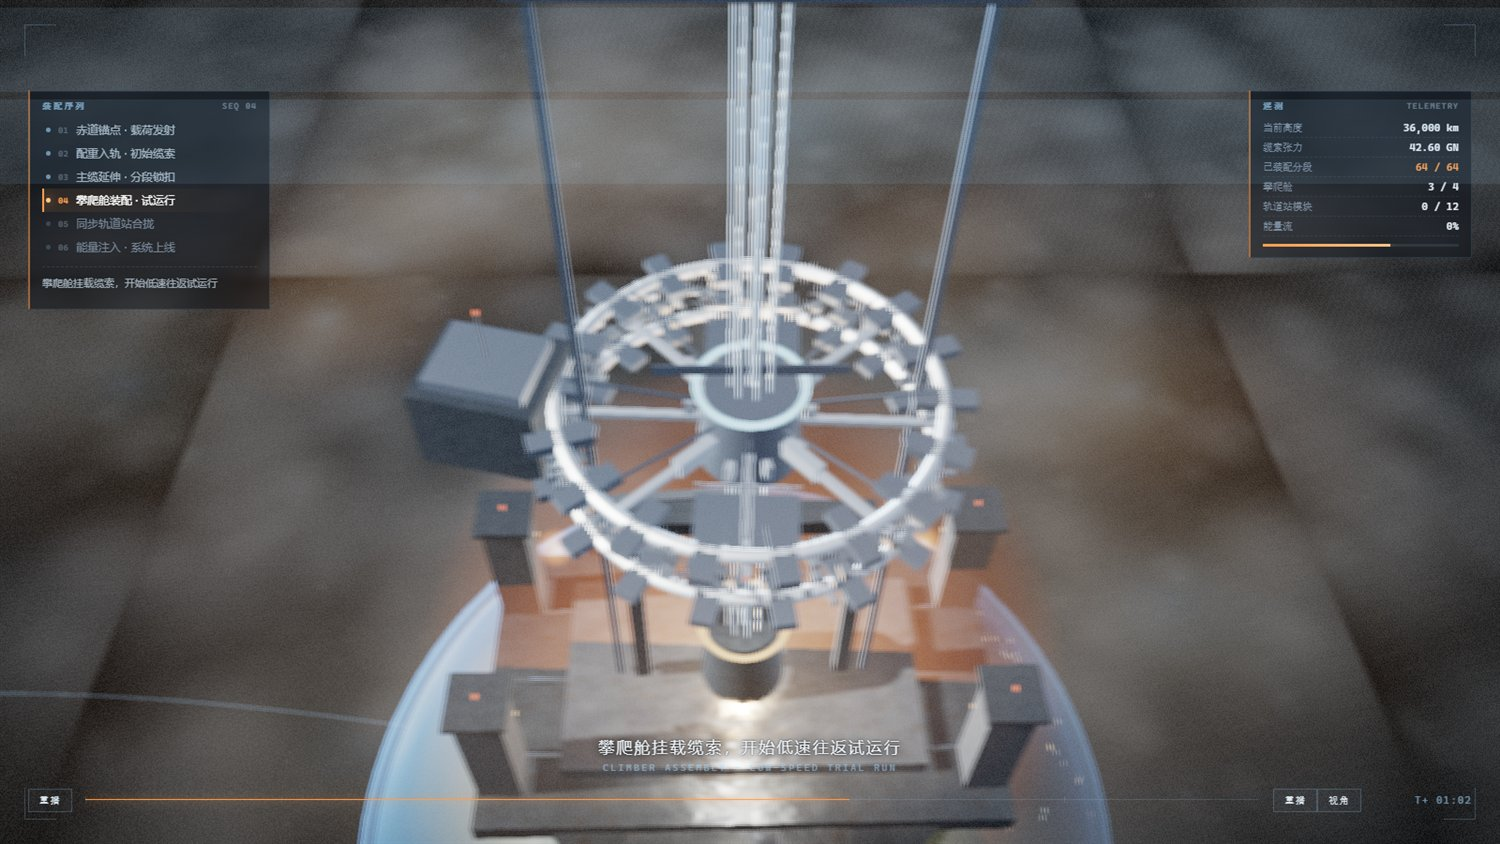
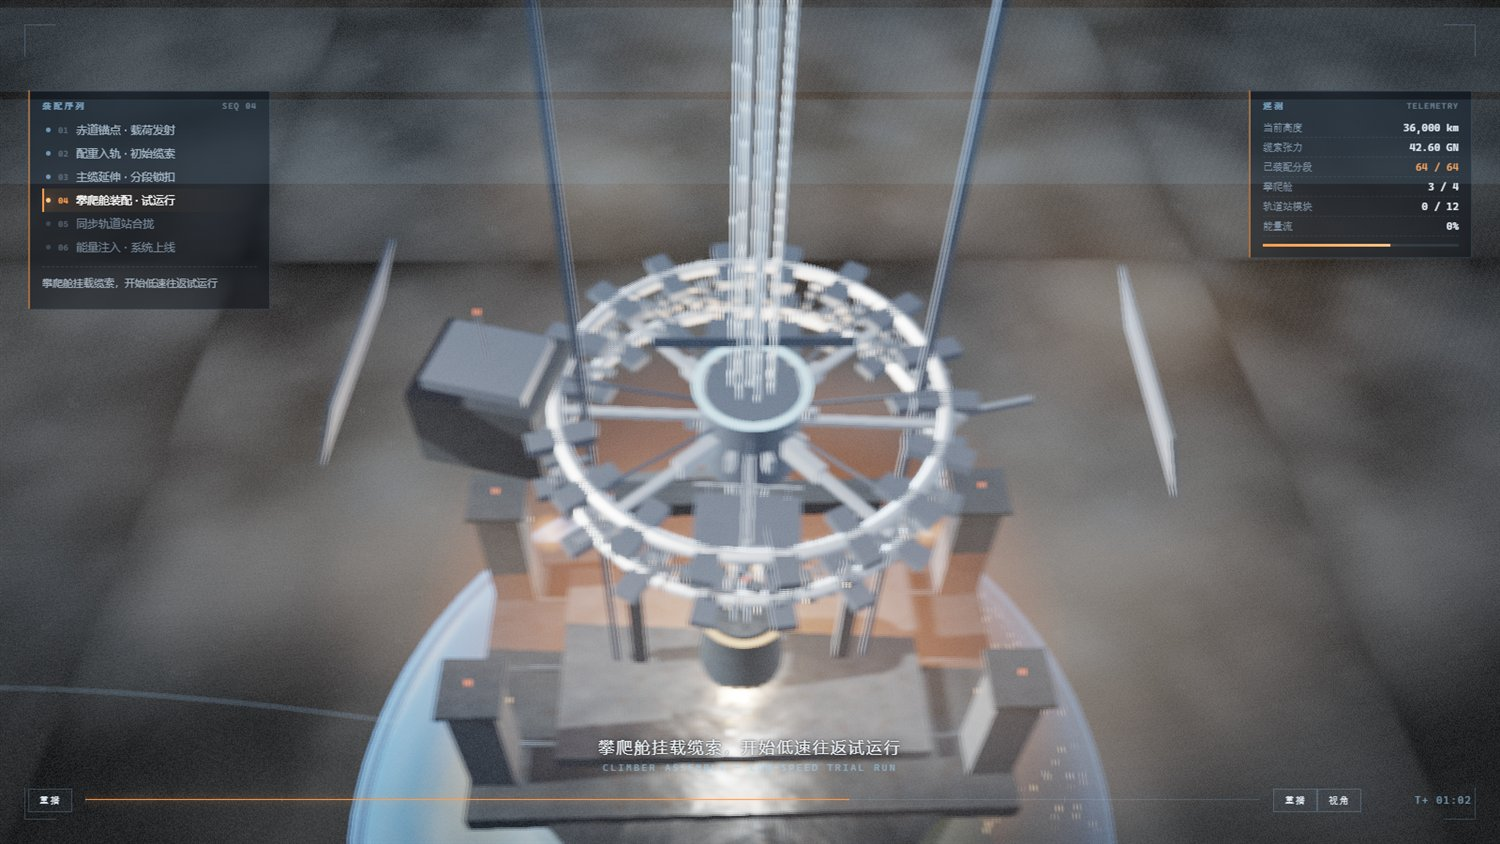
太空电梯：太阳能帆板、站/配重细节、体积云 raymarch、手持运镜

diff --git a/AI开发Demo/assets/space-elevator.html b/AI开发Demo/assets/space-elevator.html
@@ -824,6 +824,41 @@
     baseGroup.add(warm);
 
     // 地基光晕
+    // 散热板
+    for (let i=0;i<4;i++){
+      const a = i/4*TAU + 0.2;
+      const rad = new THREE.Mesh(new THREE.PlaneGeometry(0.22, 0.09), new THREE.MeshStandardMaterial({
+        color: 0x1a2634, metalness: .6, roughness: .5, side: THREE.DoubleSide,
+      }));
+      rad.position.set(Math.cos(a)*D*1.35, 0.02, Math.sin(a)*D*1.35);
+      rad.rotation.y = -a;
+      rad.rotation.x = 0.2;
+      stationGroup.add(rad);
+    }
+    // 天线
+    for (let i=0;i<6;i++){
+      const a = i/6*TAU;
+      const ant = new THREE.Mesh(new THREE.CylinderGeometry(0.0015, 0.0015, 0.10, 4), matDark);
+      ant.position.set(Math.cos(a)*D*0.8, 0.07, Math.sin(a)*D*0.8);
+      stationGroup.add(ant);
+    }
+    // 密集碎片
+    {
+      const N = 220;
+      const im = new THREE.InstancedMesh(new THREE.BoxGeometry(1,1,1), matHull, N);
+      const m4 = new THREE.Matrix4();
+      for (let i=0;i<N;i++){
+        const a = Math.random()*TAU;
+        const r = D + (Math.random()-0.5)*0.06;
+        const sz = 0.003 + Math.random()*0.010;
+        m4.makeRotationY(-a);
+        m4.setPosition(Math.cos(a)*r, (Math.random()-0.5)*0.06, Math.sin(a)*r);
+        m4.scale(new THREE.Vector3(sz, sz*0.7, sz*0.7));
+        im.setMatrixAt(i, m4);
+      }
+      stationGroup.add(im);
+    }
+
     const halo = new THREE.Sprite(new THREE.SpriteMaterial({
       map: glowTex, color: 0xff8a3c, transparent: true, opacity: .45,
       blending: THREE.AdditiveBlending, depthWrite: false,
@@ -1071,6 +1106,68 @@
     workLight.position.y = -0.08;
     carGroup.add(workLight);
 
+    // ---- 太阳能板与薄片结构 ----
+    (function panels(){
+      const tex = (() => {
+        const c = document.createElement('canvas'); c.width = c.height = 256;
+        const g = c.getContext('2d');
+        g.fillStyle = '#0a1420'; g.fillRect(0,0,256,256);
+        for (let y=0;y<8;y++) for (let x=0;x<8;x++){
+          g.fillStyle = (x+y)%2 ? 'rgba(38,68,104,.9)' : 'rgba(26,50,80,.9)';
+          g.fillRect(x*32+2, y*32+2, 28, 28);
+          g.strokeStyle = 'rgba(130,175,220,.35)'; g.lineWidth = 1;
+          g.strokeRect(x*32+2, y*32+2, 28, 28);
+        }
+        return new THREE.CanvasTexture(c);
+      })();
+      const matPanel = new THREE.MeshStandardMaterial({ map: tex, metalness: .35, roughness: .58, side: THREE.DoubleSide, color: 0x6f8194 });
+
+      const wing = (side) => {
+        const g = new THREE.Group();
+        // 支撑臂
+        const arm = new THREE.Mesh(new THREE.BoxGeometry(0.14, 0.010, 0.010), matDarkC);
+        arm.position.x = side * 0.07;
+        g.add(arm);
+        // 帆板
+        const p = new THREE.Mesh(new THREE.PlaneGeometry(0.34, 0.13), matPanel);
+        p.position.set(side * 0.31, 0, 0);
+        p.rotation.y = Math.PI/2;
+        p.rotation.z = side * 0.06;
+        p.castShadow = true;
+        g.add(p);
+        // 边框
+        const frame = new THREE.Mesh(new THREE.BoxGeometry(0.006, 0.14, 0.35), matDarkC);
+        frame.position.set(side*0.31, 0, 0);
+        g.add(frame);
+        // 加强筋
+        for (let k=-1;k<=1;k+=2){
+          const rib = new THREE.Mesh(new THREE.BoxGeometry(0.004, 0.006, 0.34), matDarkC);
+          rib.position.set(side*0.31, k*0.045, 0);
+          g.add(rib);
+        }
+        g.position.set(side * 0.30, 0.02, 0.0);
+        g.rotation.z = side * 0.35;
+        return g;
+      };
+      carGroup.add(wing(1));
+      carGroup.add(wing(-1));
+
+      // 侧面走道栏杆（薄片）
+      [-1, 1].forEach(sd => {
+        const walk = new THREE.Mesh(new THREE.BoxGeometry(0.010, 0.004, 0.30), matHullC);
+        walk.position.set(sd*0.30, -0.055, 0.02);
+        carGroup.add(walk);
+        for (let k=0;k<6;k++){
+          const post = new THREE.Mesh(new THREE.BoxGeometry(0.002, 0.035, 0.002), matHullC);
+          post.position.set(sd*0.30, -0.035, -0.11 + k*0.045);
+          carGroup.add(post);
+        }
+        const rail = new THREE.Mesh(new THREE.BoxGeometry(0.002, 0.002, 0.30), matHullC);
+        rail.position.set(sd*0.30, -0.017, 0.02);
+        carGroup.add(rail);
+      });
+    })();
+
     tetherGroup.add(carGroup);
   })();
 
@@ -1174,6 +1271,41 @@
       stationModulesArr.push(m);
     }
 
+    // 散热板
+    for (let i=0;i<4;i++){
+      const a = i/4*TAU + 0.2;
+      const rad = new THREE.Mesh(new THREE.PlaneGeometry(0.22, 0.09), new THREE.MeshStandardMaterial({
+        color: 0x1a2634, metalness: .6, roughness: .5, side: THREE.DoubleSide,
+      }));
+      rad.position.set(Math.cos(a)*D*1.35, 0.02, Math.sin(a)*D*1.35);
+      rad.rotation.y = -a;
+      rad.rotation.x = 0.2;
+      stationGroup.add(rad);
+    }
+    // 天线
+    for (let i=0;i<6;i++){
+      const a = i/6*TAU;
+      const ant = new THREE.Mesh(new THREE.CylinderGeometry(0.0015, 0.0015, 0.10, 4), matDark);
+      ant.position.set(Math.cos(a)*D*0.8, 0.07, Math.sin(a)*D*0.8);
+      stationGroup.add(ant);
+    }
+    // 密集碎片
+    {
+      const N = 220;
+      const im = new THREE.InstancedMesh(new THREE.BoxGeometry(1,1,1), matHull, N);
+      const m4 = new THREE.Matrix4();
+      for (let i=0;i<N;i++){
+        const a = Math.random()*TAU;
+        const r = D + (Math.random()-0.5)*0.06;
+        const sz = 0.003 + Math.random()*0.010;
+        m4.makeRotationY(-a);
+        m4.setPosition(Math.cos(a)*r, (Math.random()-0.5)*0.06, Math.sin(a)*r);
+        m4.scale(new THREE.Vector3(sz, sz*0.7, sz*0.7));
+        im.setMatrixAt(i, m4);
+      }
+      stationGroup.add(im);
+    }
+
     const halo = new THREE.Sprite(new THREE.SpriteMaterial({
       map: glowTex, color: 0x9fd8ff, transparent: true, opacity: .35,
       blending: THREE.AdditiveBlending, depthWrite: false,
@@ -1196,6 +1328,25 @@
     const beacon = new THREE.Mesh(new THREE.SphereGeometry(0.006, 8, 8), matRed);
     beacon.position.y = 0.04;
     counterGroup.add(beacon);
+
+    // 配重桁架与设备
+    for (let i=0;i<10;i++){
+      const x = (Math.random()-0.5)*0.20, z = (Math.random()-0.5)*0.10;
+      const b = new THREE.Mesh(new THREE.BoxGeometry(0.01+Math.random()*0.02, 0.008, 0.008+Math.random()*0.02), matDark);
+      b.position.set(x, (Math.random()-0.5)*0.05, z);
+      counterGroup.add(b);
+    }
+    const N2 = 120;
+    const im2 = new THREE.InstancedMesh(new THREE.BoxGeometry(1,1,1), matLight, N2);
+    const m42 = new THREE.Matrix4();
+    for (let i=0;i<N2;i++){
+      const sz = 0.002 + Math.random()*0.006;
+      m42.makeRotationY(Math.random()*Math.PI);
+      m42.setPosition((Math.random()-0.5)*0.18, (Math.random()-0.5)*0.06, (Math.random()-0.5)*0.10);
+      m42.scale(new THREE.Vector3(sz, sz, sz));
+      im2.setMatrixAt(i, m42);
+    }
+    counterGroup.add(im2);
   })();
 
   /* ---------------- 轨道环 ---------------- */
@@ -1211,6 +1362,7 @@
     const rtScene = new THREE.WebGLRenderTarget(1,1, { type: THREE.HalfFloatType, encoding: THREE.sRGBEncoding });
     rtScene.depthTexture = new THREE.DepthTexture(1,1);
     rtScene.depthTexture.type = THREE.UnsignedShortType;
+    const rtCloud = new THREE.WebGLRenderTarget(1,1, { type: THREE.HalfFloatType });
     const rtBright = new THREE.WebGLRenderTarget(1,1, { type: THREE.HalfFloatType });
     const rtBlurA = new THREE.WebGLRenderTarget(1,1, { type: THREE.HalfFloatType });
     const rtBlurB = new THREE.WebGLRenderTarget(1,1, { type: THREE.HalfFloatType });
@@ -1252,11 +1404,62 @@
         }`,
     });
 
+    const cloudMat = new THREE.ShaderMaterial({
+      uniforms: {
+        tScene: { value: null }, tDepth: { value: null },
+        camPos: { value: new THREE.Vector3() },
+        invProj: { value: new THREE.Matrix4() },
+        invView: { value: new THREE.Matrix4() },
+        time: { value: 0 }, density: { value: 0.20 },
+      },
+      vertexShader: `varying vec2 vUv; void main(){ vUv = uv; gl_Position = vec4(position,1.0); }`,
+      fragmentShader: `
+        uniform sampler2D tScene; uniform sampler2D tDepth;
+        uniform vec3 camPos; uniform mat4 invProj; uniform mat4 invView;
+        uniform float time; uniform float density;
+        varying vec2 vUv;
+        float hash(vec3 p){ return fract(sin(dot(p, vec3(127.1,311.7,74.7)))*43758.5453); }
+        float noise(vec3 p){
+          vec3 i = floor(p), f = fract(p);
+          f = f*f*(3.0-2.0*f);
+          float n = mix(mix(mix(hash(i), hash(i+vec3(1,0,0)), f.x), mix(hash(i+vec3(0,1,0)), hash(i+vec3(1,1,0)), f.x), f.y),
+                        mix(mix(hash(i+vec3(0,0,1)), hash(i+vec3(1,0,1)), f.x), mix(hash(i+vec3(0,1,1)), hash(i+vec3(1,1,1)), f.x), f.y), f.z);
+          return n;
+        }
+        float fbm(vec3 p){ return 0.55*noise(p) + 0.28*noise(p*2.1) + 0.17*noise(p*4.3); }
+        void main(){
+          vec3 col = texture2D(tScene, vUv).rgb;
+          float d = texture2D(tDepth, vUv).x;
+          vec4 clip = vec4(vUv*2.0-1.0, d*2.0-1.0, 1.0);
+          vec4 view = invProj * clip; view /= view.w;
+          vec4 world = invView * view;
+          vec3 rd = normalize(world.xyz - camPos);
+          float sceneDist = length(world.xyz - camPos);
+          float acc = 0.0;
+          float t = 0.15;
+          for (int i=0;i<12;i++){
+            vec3 p = camPos + rd * t;
+            float h = p.y;               // 世界高度（地球半径 1 附近）
+            float band = smoothstep(1.00, 1.06, h) * (1.0 - smoothstep(1.35, 1.75, h));
+            if (band > 0.001){
+              float den = fbm(p*4.0 + vec3(time*0.02, 0.0, time*0.01)) * band * density;
+              acc += den * 0.045;
+            }
+            t += 0.16 + t*0.12;
+            if (t > sceneDist) break;
+          }
+          acc = clamp(acc, 0.0, 0.30);
+          col = mix(col, vec3(0.78, 0.85, 0.94), acc);
+          gl_FragColor = vec4(col, 1.0);
+        }`,
+      depthTest: false, depthWrite: false,
+    });
+
     const finalMat = new THREE.ShaderMaterial({
       uniforms: {
         tScene: { value: null }, tBloom: { value: null }, tDepth: { value: null },
         bloomStrength: { value: 0.38 }, time: { value: 0 },
-        vignette: { value: 0.85 }, focus: { value: 3.0 }, aperture: { value: 0.35 },
+        vignette: { value: 0.85 }, focus: { value: 3.0 }, aperture: { value: 0.22 },
         near: { value: 0.1 }, far: { value: 200.0 }, res: { value: new THREE.Vector2(1,1) },
       },
       vertexShader: `varying vec2 vUv; void main(){ vUv = uv; gl_Position = vec4(position,1.0); }`,
@@ -1304,6 +1507,7 @@
 
     function setSize(w,h){
       rtScene.setSize(w,h);
+      rtCloud.setSize(w,h);
       if (rtScene.depthTexture) {
         rtScene.depthTexture.image.width = w;
         rtScene.depthTexture.image.height = h;
@@ -1314,13 +1518,24 @@
       blurMat.uniforms.res.value.set(bw,bh);
     }
 
-    function render(sceneRef, camRef, time){
+    function render(sceneRef, camRef, time, camPos){
       renderer.setRenderTarget(rtScene);
       renderer.clear();
       renderer.render(sceneRef, camRef);
 
+      // 体积云合成
+      quad.material = cloudMat;
+      cloudMat.uniforms.tScene.value = rtScene.texture;
+      cloudMat.uniforms.tDepth.value = rtScene.depthTexture;
+      cloudMat.uniforms.camPos.value.copy(camPos);
+      cloudMat.uniforms.invProj.value.copy(camRef.projectionMatrixInverse);
+      cloudMat.uniforms.invView.value.copy(camRef.matrixWorld);
+      cloudMat.uniforms.time.value = time;
+      renderer.setRenderTarget(rtCloud);
+      renderer.render(quadScene, quadCam);
+
       quad.material = brightMat;
-      brightMat.uniforms.tDiffuse.value = rtScene.texture;
+      brightMat.uniforms.tDiffuse.value = rtCloud.texture;
       renderer.setRenderTarget(rtBright);
       renderer.render(quadScene, quadCam);
 
@@ -1336,7 +1551,7 @@
       renderer.render(quadScene, quadCam);
 
       quad.material = finalMat;
-      finalMat.uniforms.tScene.value = rtScene.texture;
+      finalMat.uniforms.tScene.value = rtCloud.texture;
       finalMat.uniforms.tBloom.value = rtBlurB.texture;
       finalMat.uniforms.tDepth.value = rtScene.depthTexture;
       finalMat.uniforms.res.value.set(rtScene.width, rtScene.height);
@@ -1352,12 +1567,20 @@
   /* ---------------- 相机 ---------------- */
   function updateCamera(){
     const ce = Math.cos(camState.el), se = Math.sin(camState.el);
+    // 手持微抖
+    const hx = Math.sin(time*0.7)*0.0035 + Math.sin(time*1.9)*0.0018;
+    const hy = Math.cos(time*0.9)*0.0028 + Math.sin(time*2.3)*0.0014;
     camera.position.set(
       camState.target.x + camState.dist * Math.sin(camState.az) * ce,
       camState.target.y + camState.dist * se,
       camState.target.z + camState.dist * Math.cos(camState.az) * ce
     );
-    camera.lookAt(camState.target);
+    camera.position.x += hx;
+    camera.position.y += hy;
+    const look = camState.target.clone();
+    look.x += Math.sin(time*0.5)*0.002;
+    look.y += Math.cos(time*0.6)*0.0016;
+    camera.lookAt(look);
     earthUniforms.camPos.value.copy(camera.position);
   }
 
@@ -1454,7 +1677,7 @@
     camTarget.el = targetEl;
     const phaseH = [0.16, 0.26, 0.62, carH, GEO_H, 1.05][pi];
     camTarget.target.copy(UP.clone().multiplyScalar(R + phaseH));
-    const kCam = paused ? 1 : Math.min(1, dt*0.6);
+    const kCam = paused ? 1 : Math.min(1, dt*0.55);
     camState.dist += (camTarget.dist - camState.dist) * kCam;
     camState.el += (camTarget.el - camState.el) * kCam;
     camState.target.lerp(camTarget.target, kCam);
@@ -1470,7 +1693,7 @@
     });
 
     if (post.setFocus) post.setFocus(camera.position.distanceTo(camState.target));
-    post.render(scene, camera, time);
+    post.render(scene, camera, time, camera.position);
     updateHUD(timeline);
 
     if (now - startAt > 2400) $('titlecard').classList.add('hide');

diff --git a/AI开发Demo/太空电梯-3D建模与组装动画.md b/AI开发Demo/太空电梯-3D建模与组装动画.md
@@ -20,10 +20,11 @@ source: 对话式开发（DSH）
 > [!summary] 一句话
 > 一个零依赖的单文件网页：把「赤道锚点 → 配重入轨 → 主缆延伸 → 攀爬舱 → 同步轨道站 → 能量上线」六段太空电梯组装过程做成可交互的科幻动画，**双击 HTML 就能跑**，不需要联网、不需要服务器。
 
-> [!note] 2026-11-28 重制：环形轿厢 + 程序化材质 + 景深
-> 参考《流浪地球2》太空电梯壁纸：**环形轿厢抱索**夹住 7 股缆索束，两侧桁架导轨；轿厢上密度约 550 件细节（340 设备块 + 120 管线 + 90 天线/支架，全部 InstancedMesh）。
-> 三层云：近处软雾团、远处大云团、低空云海平面；后期做**景深**（基于深度纹理的 3×3 CoC 模糊）、泛光、暗角、颗粒。
-> 全部程序生成、无外部资产：金属底色/法线/粗糙度贴图与等距柱状环境贴图都由 Canvas 实时绘制，three.js 内联进单文件。
+> [!note] 2026-11-29 继续加料
+> **薄片结构**：轿厢两侧可展开太阳能帆板（带电池片贴图、边框、加强筋）与侧面走道栏杆；轨道站加散热板与天线；配重加桁架设备与 120 件碎片。
+> **体积云 raymarch**：后期新增一道全屏步进（12 步 fbm 密度），在地球半径 1.0–1.75 之间累积云密度并混入场景，取代纯精灵叠加。
+> **运镜**：叠加手持微抖（多频正弦）与注视点漂移，阶段切换用缓入缓出；景深对焦相机目标，形成前后景分离。
+> 仍是单文件、无外部资产，three.js 内联。
 
 ![[太空电梯-系统上线.jpg]]
 
